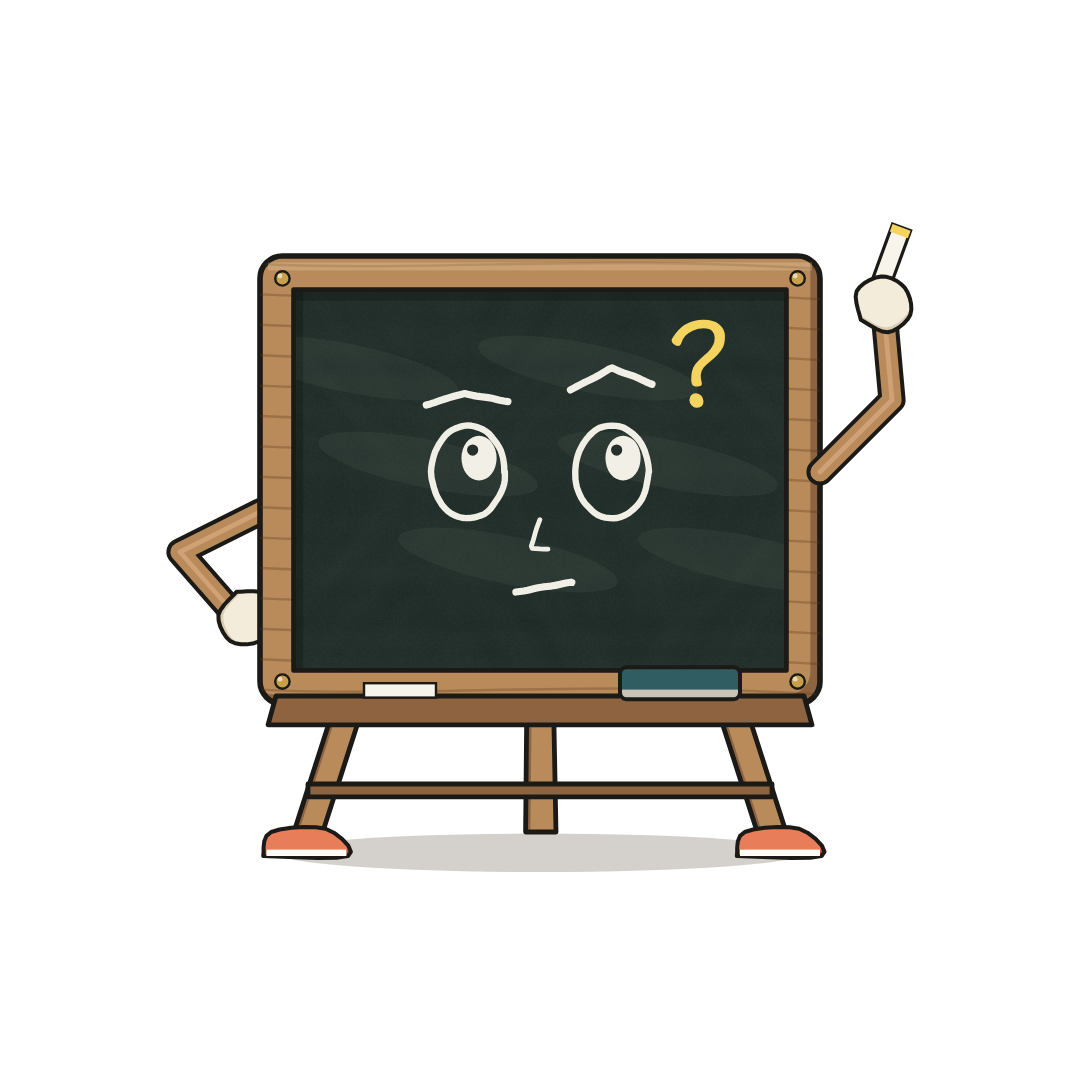
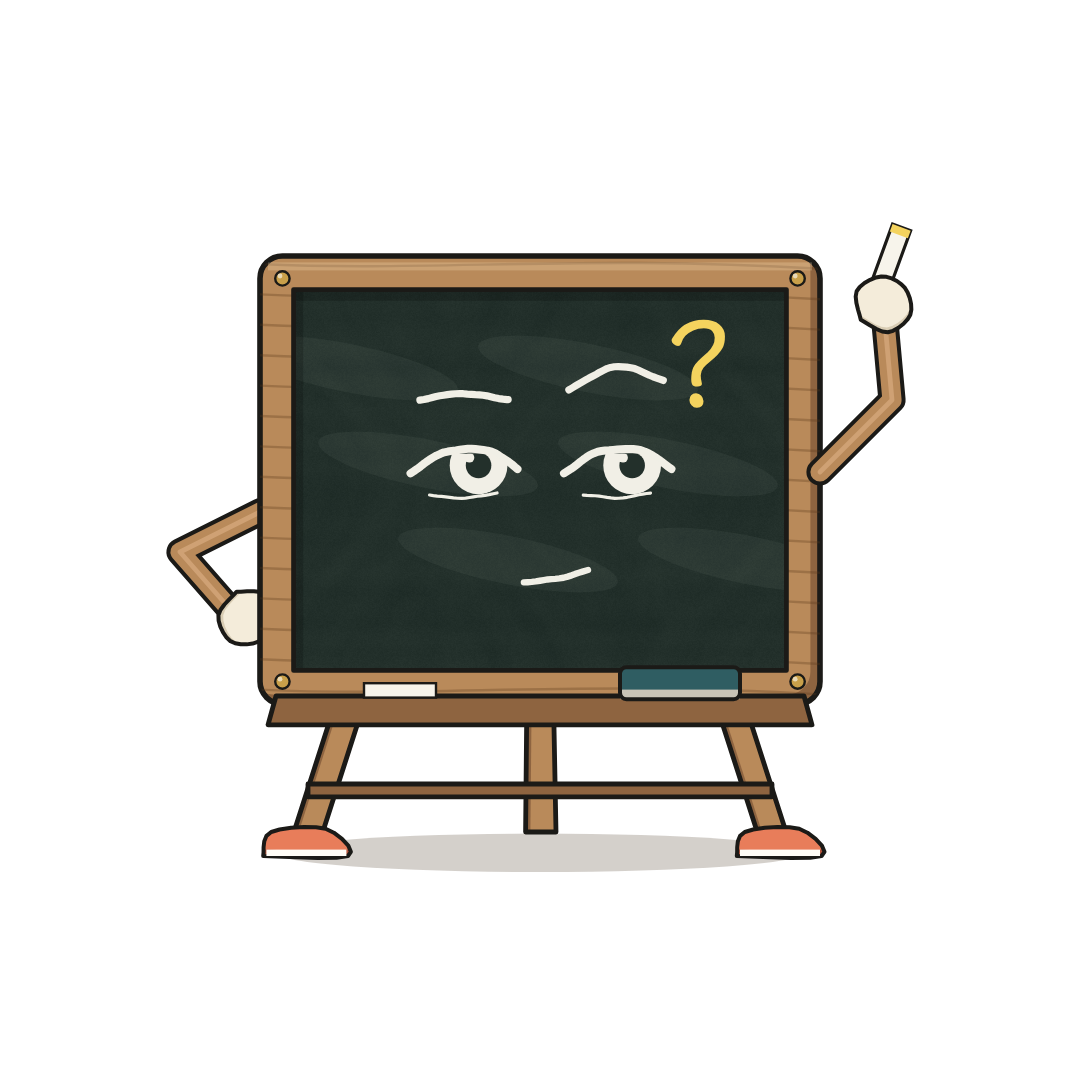
叙事科普: smarter 板板 redesign
Claude-Session: https://claude.ai/code/session_011nEt2WAE24cnWLmnKwffqX

Changed region(s): [[0.5194, 0.3361, 0.6417, 0.4889], [0.3667, 0.3667, 0.4889, 0.4889], [0.4583, 0.4889, 0.55, 0.55]]

diff --git a/projects/叙事科普/代码工程/film/banban.js b/projects/叙事科普/代码工程/film/banban.js
@@ -22,6 +22,21 @@ BB.chalk = chalk; BB.ell = ell; BB.P = P; BB.sm = sm;
 
 // ---------- 板面上的脸 ----------
 const face = (c, expr, t) => {
+  // 聪明的眼：杏仁形外框，上眼睑压住瞳孔上沿（不是圆瞪着），目光对焦
+  const sEye = (x, y, o = {}) => {
+    const rx = o.rx || 60, ry = o.ry || 38, lid = o.lid ?? 0.3, [lx, ly] = o.look || [0, 0];
+    const top = ell(x, y, rx, ry, Math.PI, Math.PI * 2, 24), bot = ell(x, y, rx, ry * 0.8, 0, Math.PI, 24);
+    const E = P(top.concat(bot));
+    c.save(); c.clip(E); c.beginPath(); c.rect(x - rx - 4, y - ry + ry * 2 * lid, rx * 2 + 8, ry * 3); c.clip();
+    c.fillStyle = C.ink; c.beginPath(); c.arc(x + lx * rx * 0.4, y + ly * ry * 0.3 + 2, ry * 0.95, 0, 7); c.fill();
+    c.fillStyle = C.bg; c.beginPath(); c.arc(x + lx * rx * 0.4, y + ly * ry * 0.3 + 2, ry * 0.42, 0, 7); c.fill();
+    c.fillStyle = C.ink; c.beginPath(); c.arc(x + lx * rx * 0.4 - ry * 0.3, y + ly * ry * 0.3 - ry * 0.2, ry * 0.16, 0, 7); c.fill();
+    c.restore();
+    chalk(c, KIT.densify([[x - rx - 6, y + 2], [x - rx * 0.4, y - ry + ry * 2 * lid - 2], [x + rx * 0.5, y - ry + ry * 2 * lid - 4], [x + rx + 8, y - 4]], 6), C.ink, 10, x + 11);
+    chalk(c, KIT.densify([[x - rx * 0.7, y + ry * 0.75], [x, y + ry * 0.85], [x + rx * 0.7, y + ry * 0.7]], 4), C.ink, 4, x + 12);
+  };
+  const glasses = (y = -20) => { for (const x of [-96, 96]) chalk(c, ell(x, y, 84, 64, 0, Math.PI * 2, 40), C.ink, 6, 200 + x, true); chalk(c, KIT.densify([[-22, y - 6], [0, y - 16], [22, y - 6]], 4), C.ink, 6, 210); chalk(c, [[-180, y - 10], [-300, y - 30]], C.ink, 5, 211); chalk(c, [[180, y - 10], [300, y - 30]], C.ink, 5, 212); };
+  const smirk = (x0 = -40, flip = 1) => chalk(c, KIT.densify([[x0, 118], [x0 + 40, 128], [x0 + 82, 112], [x0 + 96, 96]].map(([x, y]) => [x * flip, y]), 6), C.ink, 8, 220);
   const cEye = (x, y, o = {}) => {
     if (o.closed) { chalk(c, ell(x, y + 6, 46, 30, Math.PI * 1.1, Math.PI * 1.9, 20), C.ink, 10, x + 3); return; }
     if (o.happy) { chalk(c, ell(x, y + 18, 44, 40, Math.PI * 1.08, Math.PI * 1.92, 20), C.ink, 10, x + 5); return; }
@@ -35,7 +50,7 @@ const face = (c, expr, t) => {
   const nose = () => chalk(c, [[0, 50], [-12, 86], [10, 86]], C.ink, 6, 84);
   if (expr === 'story') {
     // 脸缩到上半，下面写那条故事链
-    c.save(); c.translate(0, -80); c.scale(0.62, 0.62); cEye(-90, -10, { look: [0.4, 0.4] }); cEye(90, -10, { look: [0.4, 0.4] }); brow(-90, -100, 6, 81); brow(90, -100, 6, 82); chalk(c, KIT.densify([[-70, 110], [0, 140], [72, 108]], 6), C.ink, 10, 83); c.restore();
+    c.save(); c.translate(0, -90); c.scale(0.62, 0.62); sEye(-96, -10, { lid: 0.3, look: [0, 0.8] }); sEye(96, -10, { lid: 0.3, look: [0, 0.8] }); chalk(c, KIT.densify([[-150, -96], [-96, -108], [-40, -98]], 6), C.ink, 10, 81); chalk(c, KIT.densify([[40, -98], [96, -108], [150, -96]], 6), C.ink, 10, 82); smirk(-30); c.restore();
     chalk(c, [[-230, 170], [-230, 90], [-180, 90], [-180, 170]], C.yel, 6, 90); c.fillStyle = C.yel; c.beginPath(); c.arc(-192, 132, 5, 0, 7); c.fill();
     chalk(c, [[-150, 132], [-90, 132]], C.yel, 6, 91); chalk(c, [[-104, 118], [-88, 132], [-104, 146]], C.yel, 6, 92);
     chalk(c, ell(-20, 160, 52, 50, Math.PI, Math.PI * 2, 18).concat([[-72, 160]]), C.yel, 6, 93);
@@ -43,19 +58,50 @@ const face = (c, expr, t) => {
     c.fillStyle = C.yel; c.font = '96px "LXGWWenKai-500"'; c.textAlign = 'center'; c.textBaseline = 'middle'; c.fillText('饱', 190, 136);
     return;
   }
+  if (expr === 'smart1') {        // 学者：半框眼镜，眼皮微垂，嘴角一边扬——「我想明白了」
+    glasses(); sEye(-96, -20, { lid: 0.36, look: [0.2, 0.1] }); sEye(96, -20, { lid: 0.36, look: [0.2, 0.1] });
+    chalk(c, KIT.densify([[-156, -110], [-92, -122], [-30, -112]], 6), C.ink, 9, 230); chalk(c, KIT.densify([[30, -118], [92, -136], [156, -126]], 6), C.ink, 9, 231);
+    smirk(-30);
+    return;
+  }
+  if (expr === 'smart2a') {
+    sEye(-96, -10, { lid: 0.28, look: [0.15, 0.05] }); sEye(96, -10, { lid: 0.28, look: [0.15, 0.05] });
+    chalk(c, KIT.densify([[-150, -94], [-96, -104], [-40, -96]], 6), C.ink, 9, 230); chalk(c, KIT.densify([[34, -104], [96, -128], [150, -116]], 6), C.ink, 9, 231);
+    smirk(-20);
+    c.fillStyle = C.yel; c.font = '58px "CMU-it"'; c.textAlign = 'center'; c.textBaseline = 'middle'; c.fillText('因 → 果', 190, -170); chalk(c, [[250, -120], [266, -102], [296, -140]], C.yel, 7, 232);
+    return;
+  }
+  if (expr === 'smart2') {        // 冷静讲解：眼睛斜看向旁边刚画的图，一边眉毛挑起
+    sEye(-96, -10, { lid: 0.26, look: [1, -0.15] }); sEye(96, -10, { lid: 0.26, look: [1, -0.15] });
+    chalk(c, [[-140, -84], [-88, -96], [-38, -92]], C.ink, 9, 230); chalk(c, KIT.densify([[34, -104], [90, -126], [146, -116]], 6), C.ink, 9, 231);
+    smirk(-20);
+    // 板面右上角：一个刚推出来的小式子，打了勾
+    c.fillStyle = C.yel; c.font = '58px "CMU-it"'; c.textAlign = 'center'; c.textBaseline = 'middle'; c.fillText('因 → 果', 190, -170);
+    chalk(c, [[250, -120], [266, -102], [296, -140]], C.yel, 7, 232);
+    return;
+  }
+  if (expr === 'smart3') {        // 点拨：眼神笃定看着你，头顶亮起一个想法
+    sEye(-96, -10, { lid: 0.32, look: [0, 0.1] }); sEye(96, -10, { lid: 0.32, look: [0, 0.1] });
+    chalk(c, [[-140, -96], [-88, -102], [-36, -90]], C.ink, 9, 230); chalk(c, [[36, -90], [88, -104], [140, -98]], C.ink, 9, 231);
+    chalk(c, KIT.densify([[-46, 112], [0, 132], [52, 110]], 6), C.ink, 8, 233); chalk(c, [[52, 110], [62, 100]], C.ink, 7, 234);
+    // 灯泡
+    chalk(c, ell(0, -178, 34, 34, Math.PI * 0.75, Math.PI * 2.25, 30), C.yel, 6, 235); chalk(c, [[-16, -150], [-14, -134], [14, -134], [16, -150]], C.yel, 6, 236);
+    for (let i = 0; i < 5; i++) { const a = -Math.PI / 2 + (i - 2) * 0.55; chalk(c, [[Math.cos(a) * 50, -178 + Math.sin(a) * 50], [Math.cos(a) * 70, -178 + Math.sin(a) * 70]], C.yel, 5, 237 + i); }
+    return;
+  }
   const L = -90, R = 90, Y = -10;
   if (expr === 'smile') { cEye(L, Y); cEye(R, Y); brow(L, -100, 4, 81); brow(R, -100, -4, 82); nose(); chalk(c, KIT.densify([[-70, 120], [0, 170], [72, 118]], 6), C.ink, 9, 83); }
   if (expr === 'happy') { cEye(L, Y, { happy: true }); cEye(R, Y, { happy: true }); brow(L, -96, 8, 81); brow(R, -96, -8, 82);
     const m = P(sm([[-86, 100], [86, 100], [60, 170], [0, 196], [-60, 170]], 6)); c.fillStyle = C.ink; c.globalAlpha = 0.9; c.fill(m); c.globalAlpha = 1; c.save(); c.clip(m); c.fillStyle = C.red; c.beginPath(); c.ellipse(0, 196, 52, 34, 0, 0, 7); c.fill(); c.restore(); chalk(c, sm([[-86, 100], [86, 100], [60, 170], [0, 196], [-60, 170]], 6), C.ink, 6, 85); }
-  if (expr === 'think') { cEye(L, Y, { look: [0.6, -0.6] }); cEye(R, Y, { look: [0.6, -0.6] }); brow(L, -96, 2, 81); chalk(c, [[R - 52, -112], [R, -140], [R + 50, -120]], C.ink, 9, 82); nose();
-    chalk(c, [[-30, 140], [40, 128]], C.ink, 9, 83); c.fillStyle = C.yel; c.font = '150px "LXGWWenKai-500"'; c.textAlign = 'center'; c.textBaseline = 'middle'; c.fillText('？', 230, -150); }
-  if (expr === 'surprise') { cEye(L, Y, { rx: 52, ry: 64, pupil: 0.6, look: [0, 0] }); cEye(R, Y, { rx: 52, ry: 64, pupil: 0.6, look: [0, 0] }); brow(L, -128, 10, 81); brow(R, -128, -10, 82);
-    chalk(c, ell(0, 140, 34, 42, 0, Math.PI * 2, 30), C.ink, 9, 83, true); c.fillStyle = C.red; c.font = '160px "LXGWWenKai-500"'; c.textAlign = 'center'; c.textBaseline = 'middle'; c.fillText('！', 240, -140); }
+  if (expr === 'think') { sEye(-96, -10, { lid: 0.2, look: [0.8, -0.9] }); sEye(96, -10, { lid: 0.2, look: [0.8, -0.9] }); chalk(c, KIT.densify([[-150, -100], [-96, -108], [-40, -100]], 6), C.ink, 9, 81); chalk(c, KIT.densify([[36, -112], [96, -142], [154, -124]], 6), C.ink, 9, 82);
+    chalk(c, KIT.densify([[-20, 128], [30, 122], [60, 112]], 4), C.ink, 8, 83); c.fillStyle = C.yel; c.font = '150px "LXGWWenKai-500"'; c.textAlign = 'center'; c.textBaseline = 'middle'; c.fillText('？', 230, -150); }
+  if (expr === 'surprise') { sEye(-96, -10, { lid: 0, ry: 46, look: [0, 0] }); sEye(96, -10, { lid: 0, ry: 46, look: [0, 0] }); chalk(c, KIT.densify([[-150, -116], [-96, -134], [-40, -122]], 6), C.ink, 9, 81); chalk(c, KIT.densify([[40, -122], [96, -134], [150, -116]], 6), C.ink, 9, 82);
+    chalk(c, ell(0, 130, 22, 28, 0, Math.PI * 2, 30), C.ink, 8, 83, true); c.fillStyle = C.red; c.font = '160px "LXGWWenKai-500"'; c.textAlign = 'center'; c.textBaseline = 'middle'; c.fillText('！', 240, -140); }
   if (expr === 'wink') { cEye(L, Y); cEye(R, Y, { closed: true }); brow(L, -100, 4, 81); brow(R, -92, -2, 82); nose(); chalk(c, KIT.densify([[-60, 120], [10, 160], [80, 112]], 6), C.ink, 9, 83);
     for (let i = 0; i < 4; i++) { const a = -0.9 + i * 0.4; chalk(c, [[200 + Math.cos(a) * 30, -60 + Math.sin(a) * 30], [200 + Math.cos(a) * 60, -60 + Math.sin(a) * 60]], C.yel, 6, 86 + i); } }
   if (expr === 'erase') {
     // 左半张脸已经被擦掉（一片糊），右半张还在
-    cEye(R, Y, { look: [-0.6, 0.2] }); brow(R, -100, -4, 82); chalk(c, KIT.densify([[10, 140], [50, 156], [80, 140]], 6), C.ink, 9, 83);
+    sEye(96, -10, { lid: 0.3, look: [-0.9, 0] }); chalk(c, KIT.densify([[40, -100], [96, -122], [152, -110]], 6), C.ink, 9, 82); chalk(c, KIT.densify([[20, 124], [60, 130], [92, 112]], 6), C.ink, 8, 83);
     c.save(); c.globalAlpha = 0.35; c.fillStyle = C.sub; c.beginPath(); c.ellipse(-110, 20, 190, 160, -0.1, 0, 7); c.fill(); c.globalAlpha = 0.18; c.beginPath(); c.ellipse(-40, -30, 120, 100, 0.3, 0, 7); c.fill(); c.restore();
     for (let i = 0; i < 7; i++) chalk(c, [[-280 + i * 12, -150 + i * 46], [40 - i * 10, -160 + i * 48]], 'rgba(169,179,170,.35)', 22, 100 + i);
   }
@@ -63,7 +109,7 @@ const face = (c, expr, t) => {
 
 BB.draw = (c, cx, cy, s = 1, o = {}) => {
   const expr = o.expr || 'smile', t = o.t || 0;
-  c.save(); c.translate(cx, cy); c.scale(s, s);
+  c.save(); c.translate(cx, cy); c.scale(s, s); if (o.tilt) c.rotate(o.tilt);
   // 影子
   if (o.legs !== false) { c.save(); c.fillStyle = 'rgba(60,40,20,.22)'; c.beginPath(); c.ellipse(0, 466, 330, 24, 0, 0, 7); c.fill(); c.restore(); }
   // 画架腿＋鞋
@@ -77,7 +123,13 @@ BB.draw = (c, cx, cy, s = 1, o = {}) => {
   // 左臂
   const arm = (pts) => { c.save(); c.lineCap = 'round'; c.lineJoin = 'round'; c.strokeStyle = C.dark; c.lineWidth = 34; c.beginPath(); pts.forEach((p, i) => i ? c.lineTo(...p) : c.moveTo(...p)); c.stroke(); c.strokeStyle = C.wood; c.lineWidth = 24; c.stroke(); c.strokeStyle = C.woodL; c.lineWidth = 6; c.translate(-4, -4); c.stroke(); c.restore(); };
   const mitt = (x, y, r, closed = true) => { c.save(); c.translate(x, y); c.rotate(r); const m = P(sm(closed ? [[-30, 12], [-28, -24], [6, -36], [32, -16], [32, 18], [0, 34]] : [[-30, 12], [-36, -40], [-14, -56], [6, -40], [22, -60], [40, -40], [34, 18], [0, 34]], 5)); c.fillStyle = C.glove; c.fill(m); shaded(c, m, C.glove, '#D9CDB4', 0, -6); line(c, m, 5); c.restore(); };
+  const arm2 = (pts) => { c.save(); c.lineCap = 'round'; c.lineJoin = 'round'; c.strokeStyle = C.dark; c.lineWidth = 26; c.beginPath(); pts.forEach((p, i) => i ? c.lineTo(...p) : c.moveTo(...p)); c.stroke(); c.strokeStyle = C.wood; c.lineWidth = 17; c.stroke(); c.strokeStyle = C.woodL; c.lineWidth = 4; c.translate(-3, -3); c.stroke(); c.restore();
+    const e = pts[1]; c.fillStyle = C.woodD; c.beginPath(); c.arc(e[0], e[1], 13, 0, 7); c.fill(); c.strokeStyle = C.dark; c.lineWidth = 4; c.stroke(); };
+  const hand = (x, y, r, kind) => { c.save(); c.translate(x, y); c.rotate(r);
+    const shapes = { fist: [[-26, 14], [-26, -18], [4, -28], [28, -14], [28, 16], [0, 28]], finger: [[-24, 16], [-24, -10], [-4, -14], [-6, -66], [8, -72], [14, -14], [28, -6], [26, 20], [0, 28]], open: [[-26, 16], [-30, -30], [-14, -44], [4, -30], [18, -48], [34, -34], [28, 18], [0, 28]] };
+    const m = P(sm(shapes[kind] || shapes.fist, 4)); c.fillStyle = C.glove; c.fill(m); shaded(c, m, C.glove, '#D9CDB4', 0, -5); line(c, m, 4); c.restore(); };
   const armL = o.armL || 'down';
+  if (armL === 'present') { arm2([[-350, 60], [-470, 150], [-560, 90]]); hand(-574, 80, -1.2, 'open'); }
   if (armL === 'down') { arm([[-350, 50], [-420, 130], [-400, 220]]); mitt(-398, 232, 0.3); }
   if (armL === 'hip') { arm([[-350, 40], [-450, 90], [-380, 170]]); mitt(-368, 170, 1.6); }
   if (armL === 'eraser') { arm([[-350, 0], [-430, -60], [-360, -150]]); c.save(); c.translate(-330, -170); c.rotate(-0.3); const er = new Path2D(); er.roundRect(-80, -26, 160, 52, 10); c.fillStyle = C.teal; c.fill(er); c.fillStyle = '#C9C4B6'; c.fillRect(-80, 8, 160, 18); line(c, er, 5); c.restore(); mitt(-352, -150, -0.4);
@@ -100,8 +152,12 @@ BB.draw = (c, cx, cy, s = 1, o = {}) => {
   const tray = P([[-330, 270], [330, 270], [340, 306], [-340, 306]]); c.fillStyle = C.woodD; c.fill(tray); line(c, tray);
   if (armL !== 'eraser') { const er = new Path2D(); er.roundRect(100, 234, 150, 40, 8); c.fillStyle = C.teal; c.fill(er); c.fillStyle = '#C9C4B6'; c.fillRect(100, 262, 150, 12); line(c, er, 5); }
   c.fillStyle = '#F7F4EB'; c.fillRect(-220, 254, 90, 18); c.strokeStyle = C.dark; c.lineWidth = 3; c.strokeRect(-220, 254, 90, 18);
+  if (armL === 'chin') { arm2([[-350, 200], [-330, 360], [-170, 296]]); hand(-150, 284, -0.6, 'fist'); }
   // 右臂
   const armR = o.armR || 'chalk';
+  if (armR === 'finger') { arm2([[350, 20], [470, -40], [470, -170]]); hand(472, -190, 0.1, 'finger'); }
+  if (armR === 'write') { arm2([[350, 0], [480, 60], [560, -40]]); c.save(); c.translate(578, -70); c.rotate(0.6); c.fillStyle = '#F7F4EB'; c.fillRect(-10, -60, 20, 64); c.lineWidth = 4; c.strokeStyle = C.dark; c.strokeRect(-10, -60, 20, 64); c.fillStyle = C.yel; c.fillRect(-10, -60, 20, 9); c.restore(); hand(568, -50, 0.4, 'fist');
+    chalk(c, KIT.densify([[600, -110], [640, -170], [700, -150], [720, -210]], 6), C.yel, 7, 240); }
   if (armR === 'chalk') { arm([[350, -10], [440, -100], [430, -210]]); c.save(); c.translate(428, -250); c.rotate(0.35); c.fillStyle = '#F7F4EB'; c.fillRect(-12, -70, 24, 74); c.lineWidth = 4; c.strokeStyle = C.dark; c.strokeRect(-12, -70, 24, 74); c.fillStyle = C.yel; c.fillRect(-12, -70, 24, 10); c.restore(); mitt(428, -218, -0.2); }
   if (armR === 'point') { arm([[350, -40], [450, -110], [540, -170]]); c.save(); c.translate(560, -184); c.rotate(-0.55); const h = P(sm([[-30, 14], [-30, -20], [10, -26], [60, -24], [64, -12], [20, -6], [28, 20], [0, 30]], 5)); c.fillStyle = C.glove; c.fill(h); line(c, h, 5); c.restore(); }
   if (armR === 'wave') { arm([[350, -30], [450, -90], [470, -220]]); mitt(474, -250, 0.2, false); for (let i = 0; i < 3; i++) { const a = -1.9 + i * 0.4; c.save(); c.strokeStyle = C.dark; c.lineWidth = 5; c.lineCap = 'round'; c.beginPath(); c.arc(474, -250, 90 + i * 0, a, a + 0.25); c.stroke(); c.restore(); } }

diff --git a/projects/叙事科普/代码工程/film/banban_scenes.js b/projects/叙事科普/代码工程/film/banban_scenes.js
@@ -2,9 +2,12 @@
 (() => {
 const C = BB.C;
 const paperBg = (c, W, H) => { c.fillStyle = C.paper; c.fillRect(0, 0, W, H); const t = CL.paperTile('bb_wall', C.paper, { size: 512, amt: 8, fibers: 160, grain: 8, seed: 3 }); c.fillStyle = c.createPattern(t, 'repeat'); c.fillRect(0, 0, W, H); };
+SCENES.bb_s1 = { draw(c) { BB.draw(c, 560, 480, 0.8, { expr: 'smart1', armR: 'chalk', armL: 'hip', tilt: -0.05 }); } };
+SCENES.bb_s2 = { draw(c) { BB.draw(c, 440, 480, 0.78, { expr: 'smart2', armR: 'write', armL: 'down', tilt: 0.04 }); } };
+SCENES.bb_s3 = { draw(c) { BB.draw(c, 560, 480, 0.8, { expr: 'smart3', armR: 'finger', armL: 'present', tilt: -0.03 }); } };
 // 头像：圆形裁切也完整（主体在中心 70% 的圆里）
-SCENES.bb_avatar = { draw(c) { paperBg(c, 1080, 1080); c.fillStyle = 'rgba(47,93,98,.10)'; c.beginPath(); c.arc(540, 540, 470, 0, 7); c.fill(); BB.draw(c, 540, 520, 0.92, { expr: 'smile', armR: 'chalk', armL: 'down', legs: false }); } };
-const EX = ['smile', 'happy', 'think', 'surprise', 'wink', 'erase', 'story'];
+SCENES.bb_avatar = { draw(c) { paperBg(c, 1080, 1080); c.fillStyle = 'rgba(47,93,98,.10)'; c.beginPath(); c.arc(540, 540, 470, 0, 7); c.fill(); BB.draw(c, 540, 520, 0.92, { expr: 'smart2a', armR: 'chalk', armL: 'down', legs: false }); } };
+const EX = ['think', 'surprise', 'erase', 'story'];
 const ARM = { smile: ['chalk', 'down'], happy: ['wave', 'hip'], think: ['chalk', 'hip'], surprise: ['wave', 'down'], wink: ['point', 'hip'], erase: ['chalk', 'eraser'], story: ['point', 'down'] };
 EX.forEach(e => { SCENES['bb_' + e] = { draw(c, lt) { BB.draw(c, 540, 480, 0.8, { expr: e, armR: ARM[e][0], armL: ARM[e][1], t: lt }); } }; });
 // 竖版封面 1080×1440：上半是标题区，板板在右下角指着标题
@@ -16,7 +19,7 @@ SCENES.bb_cover34 = { draw(c) {
   c.fillStyle = C.ink; c.font = '112px "PuHui-Black"'; c.fillText('物理定律背后', 80, 330); c.fillText('还有更深的', 80, 470); c.fillStyle = C.yel; c.fillText('东西吗？', 80, 610);
   BB.chalk(c, [[80, 650], [520, 642], [600, 652]], C.yel, 10, 7);
   c.fillStyle = C.sub; c.font = '36px "PuHui-Medium"'; c.fillText('读书笔记 · 万维钢《现代思维工具100讲》', 80, 712);
-  BB.draw(c, 640, 1060, 0.72, { expr: 'think', armR: 'point', armL: 'down' });
+  BB.draw(c, 640, 1060, 0.72, { expr: 'smart3', armR: 'finger', armL: 'down' });
 } };
 // 横版封面 1920×1080
 SCENES.bb_cover169 = { draw(c) {

diff --git a/projects/叙事科普/代码工程/eras_banban.js b/projects/叙事科普/代码工程/eras_banban.js
@@ -1,3 +1,3 @@
 window.PUNCH = 0;
 window.SCENE_LIBS = ['film/banban.js', 'film/banban_scenes.js'];
-window.ERAS = ['bb_avatar', 'bb_smile', 'bb_happy', 'bb_think', 'bb_surprise', 'bb_wink', 'bb_erase', 'bb_story', 'bb_cover34', 'bb_cover169'].map(id => ({ id, dur: 1 }));
+window.ERAS = ['bb_s1', 'bb_s2', 'bb_s3', 'bb_avatar', 'bb_think', 'bb_surprise', 'bb_erase', 'bb_story', 'bb_cover34', 'bb_cover169'].map(id => ({ id, dur: 1 }));

diff --git a/projects/叙事科普/形象/板板_人设说明.md b/projects/叙事科普/形象/板板_人设说明.md
@@ -23,16 +23,17 @@
 
 - **结构**：木框黑板＋三脚画架当腿＋两条木头胳膊（白色手套）＋橙红色鞋。
 - **颜色**：板面 `#23302B`，粉笔白 `#F1EFE6`，粉笔黄 `#F4D35E`，橙红 `#E87D5A`（鞋、强调），木框 `#B98A5A` / 暗面 `#8E6440`，手套 `#F4ECDA`，板擦 `#2F5D62`。
-- **脸**：只用粉笔线画在板面上（白色），眉毛、眼睛、鼻子、嘴都是粉笔笔画，不贴卡通五官；强调符号（？！）用黄或橙红粉笔。
+- **脸**：只用粉笔线画在板面上（白色）。眼睛是杏仁形、上眼睑压住瞳孔上沿、目光对焦；眉毛是平缓的弧，常有一边微挑；嘴是单边上扬的浅笑；不画鼻子。强调符号（？！灯泡、因→果）用黄或橙红粉笔。
+- **神态**：聪明、笃定、有点得意，不是呆萌——不用圆瞪的大眼、咧到底的大嘴。
 - **固定细节**：木框四角铜钉、板槽里一截粉笔和一块蓝绿色板擦、板面左下角的小故事链（讲故事表情时放大）。
-- **不要做**：给木框长眼睛、把脸画到框外、换成别的颜色的板面、加腮红。
+- **不要做**：给木框长眼睛、把脸画到框外、换成别的颜色的板面、加腮红、圆瞪眼、对眼。
 
 ## 已有素材（`形象/板板/`）
 
 | 文件 | 用途 |
 |---|---|
 | `bb_avatar.png` | 抖音头像（1080×1080，圆形裁切也完整） |
-| `bb_smile / happy / think / surprise / wink / erase / story.png` | 7 个表情：微笑、开心挥手、思考、惊讶、眨眼指向、擦掉重画、讲故事；透明底，可做表情包、贴在视频角落 |
+| `bb_s2 / s1 / s3 / think / surprise / erase / story.png` | 7 个表情：冷静讲解（主形象）、学者（戴眼镜）、点拨（亮灯泡）、思考、惊讶、擦掉重画、讲故事；透明底，可做表情包、贴在视频角落 |
 | `bb_cover34.png` | 竖版封面模板 1080×1440（本期标题已填好） |
 | `bb_cover169.png` | 横版封面 1920×1080 |
 
@@ -44,7 +45,7 @@
 
 ```
 一个拟人化的小黑板卡通角色，木质边框带四个铜钉，深墨绿色板面，
-脸是用白色粉笔画在板面上的（简单的粉笔线条眉毛、圆眼睛、微笑），
+脸是用白色粉笔画在板面上的（杏仁形半垂眼、一边眉毛微挑、单边上扬的自信浅笑，神情聪明笃定），
 三脚木画架当腿，两条木头细胳膊戴白色手套，右手举着一支白色粉笔，
 脚穿橙红色运动鞋，板槽里有一截粉笔和一块蓝绿色板擦，
 暖米色纸质背景，柔和光线，皮克斯风格 3D 渲染，可爱、温暖、知性，正面全身
